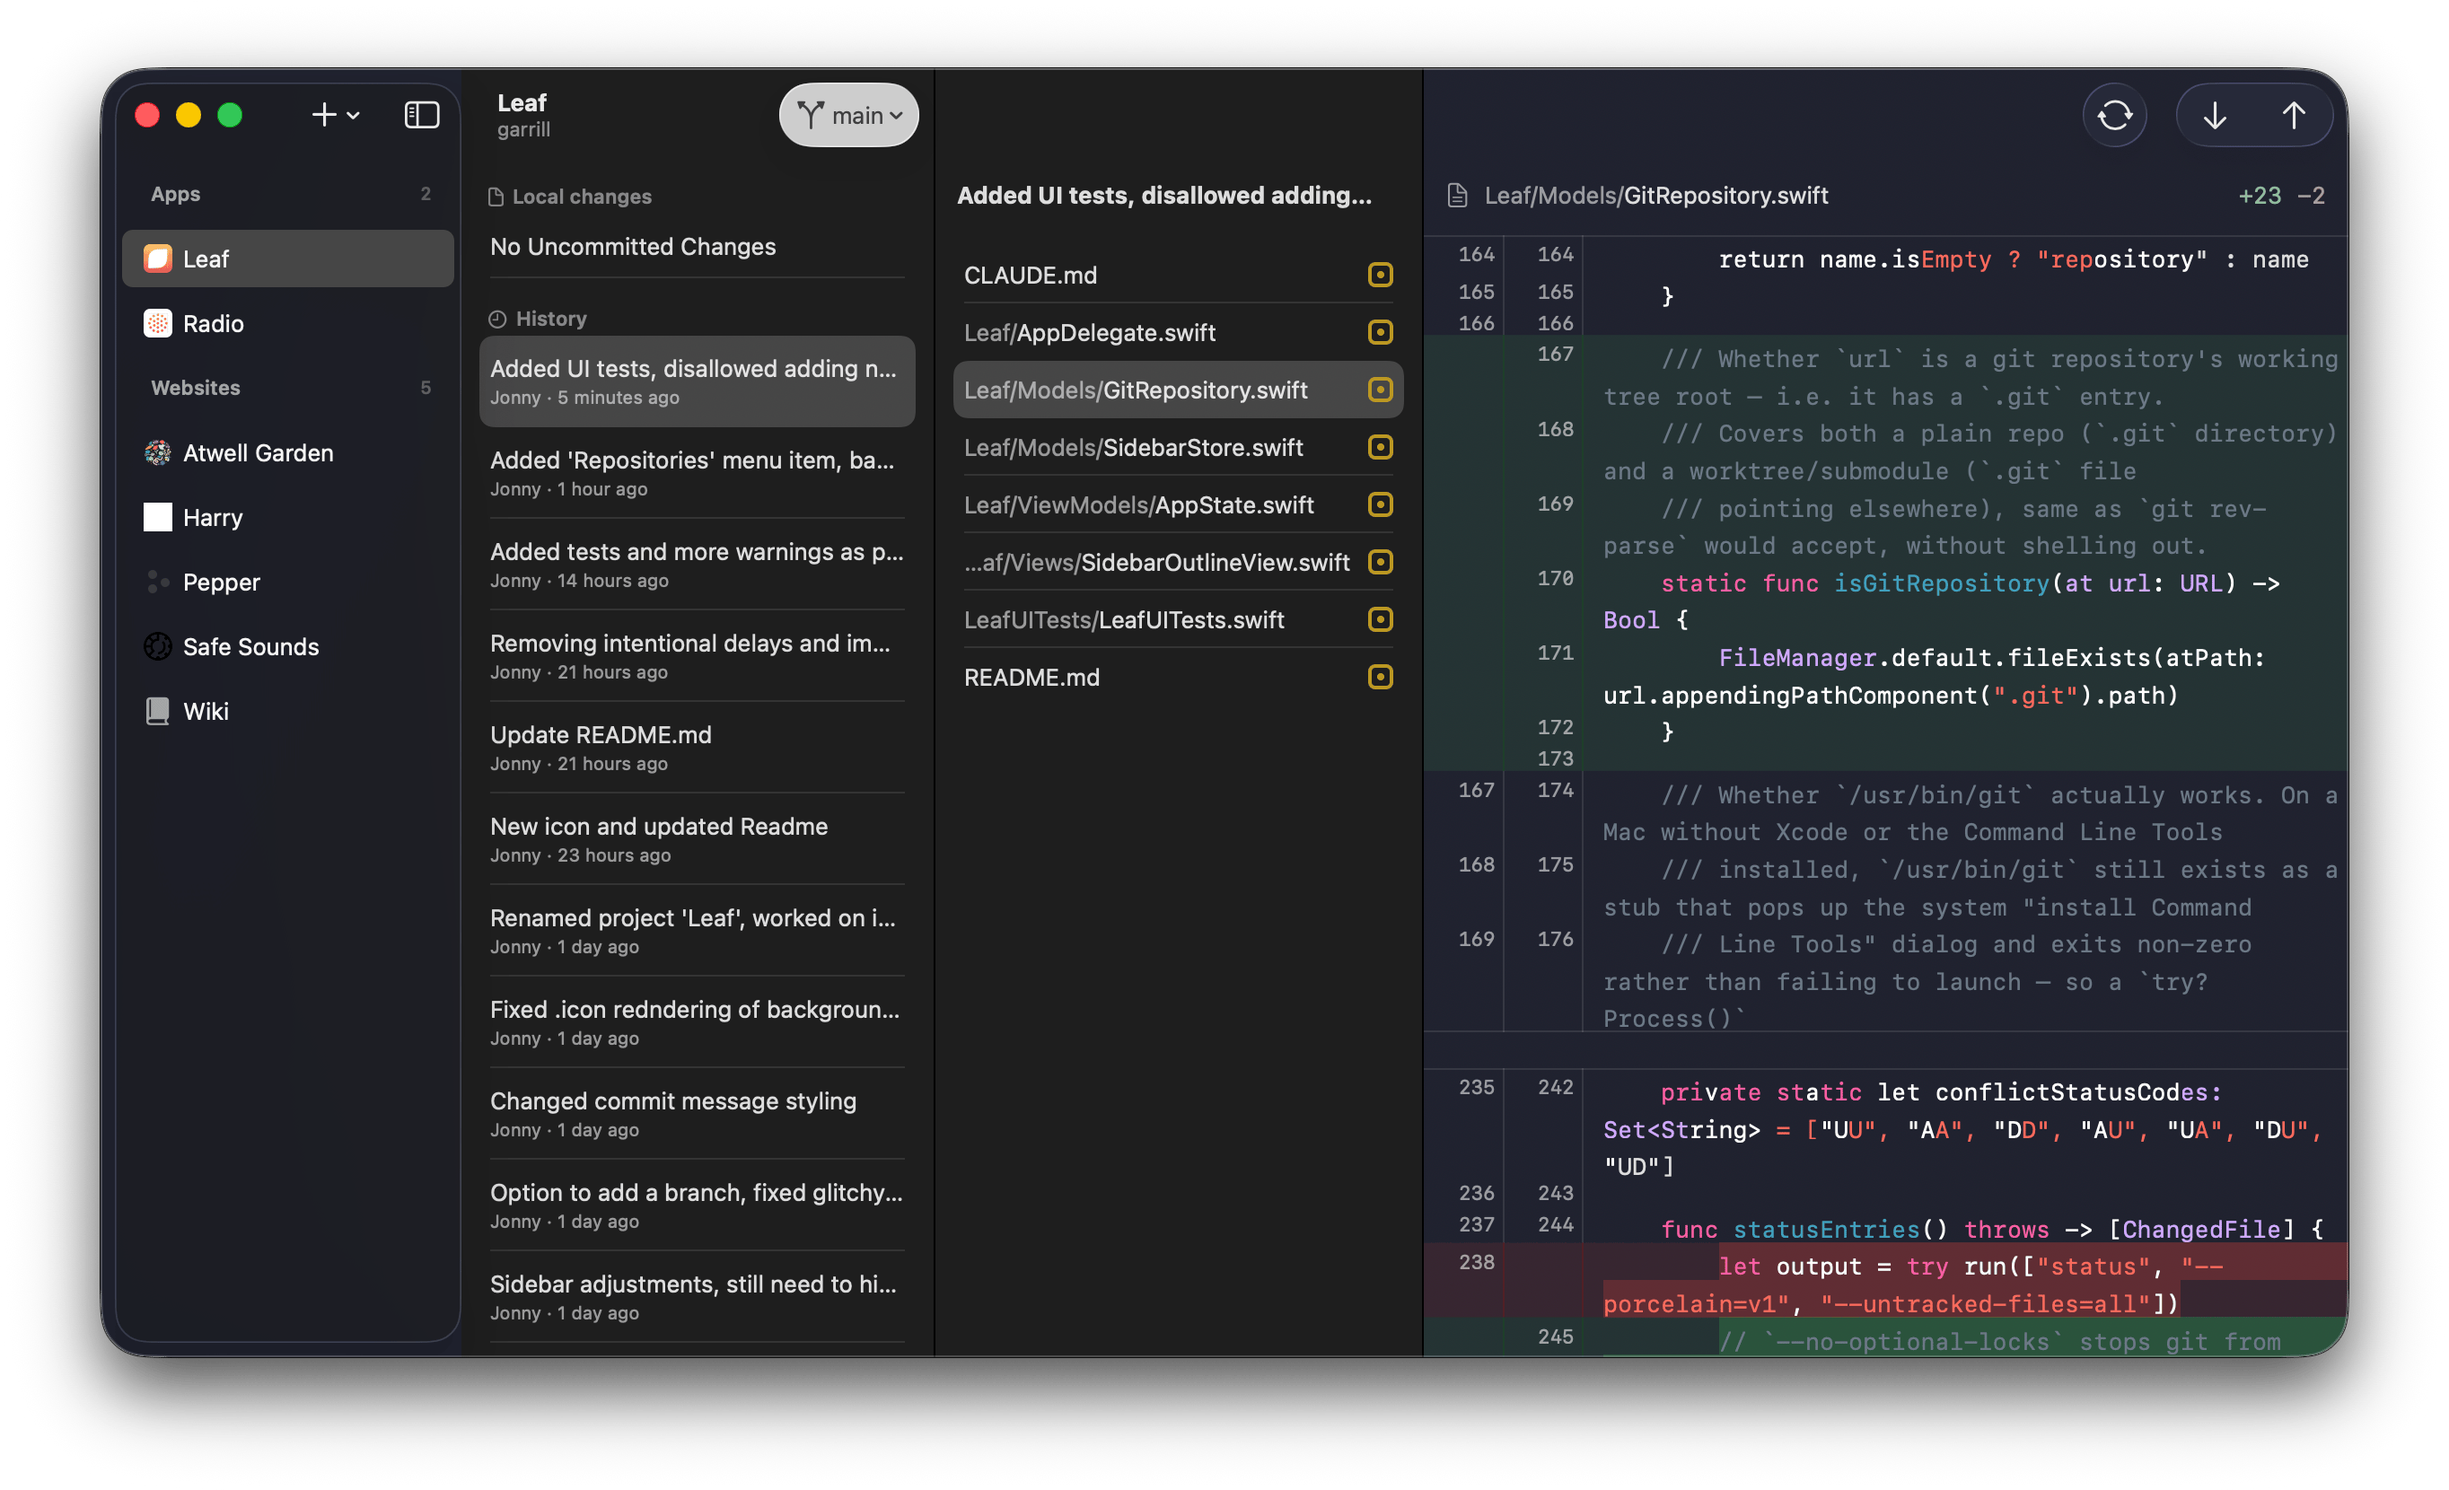
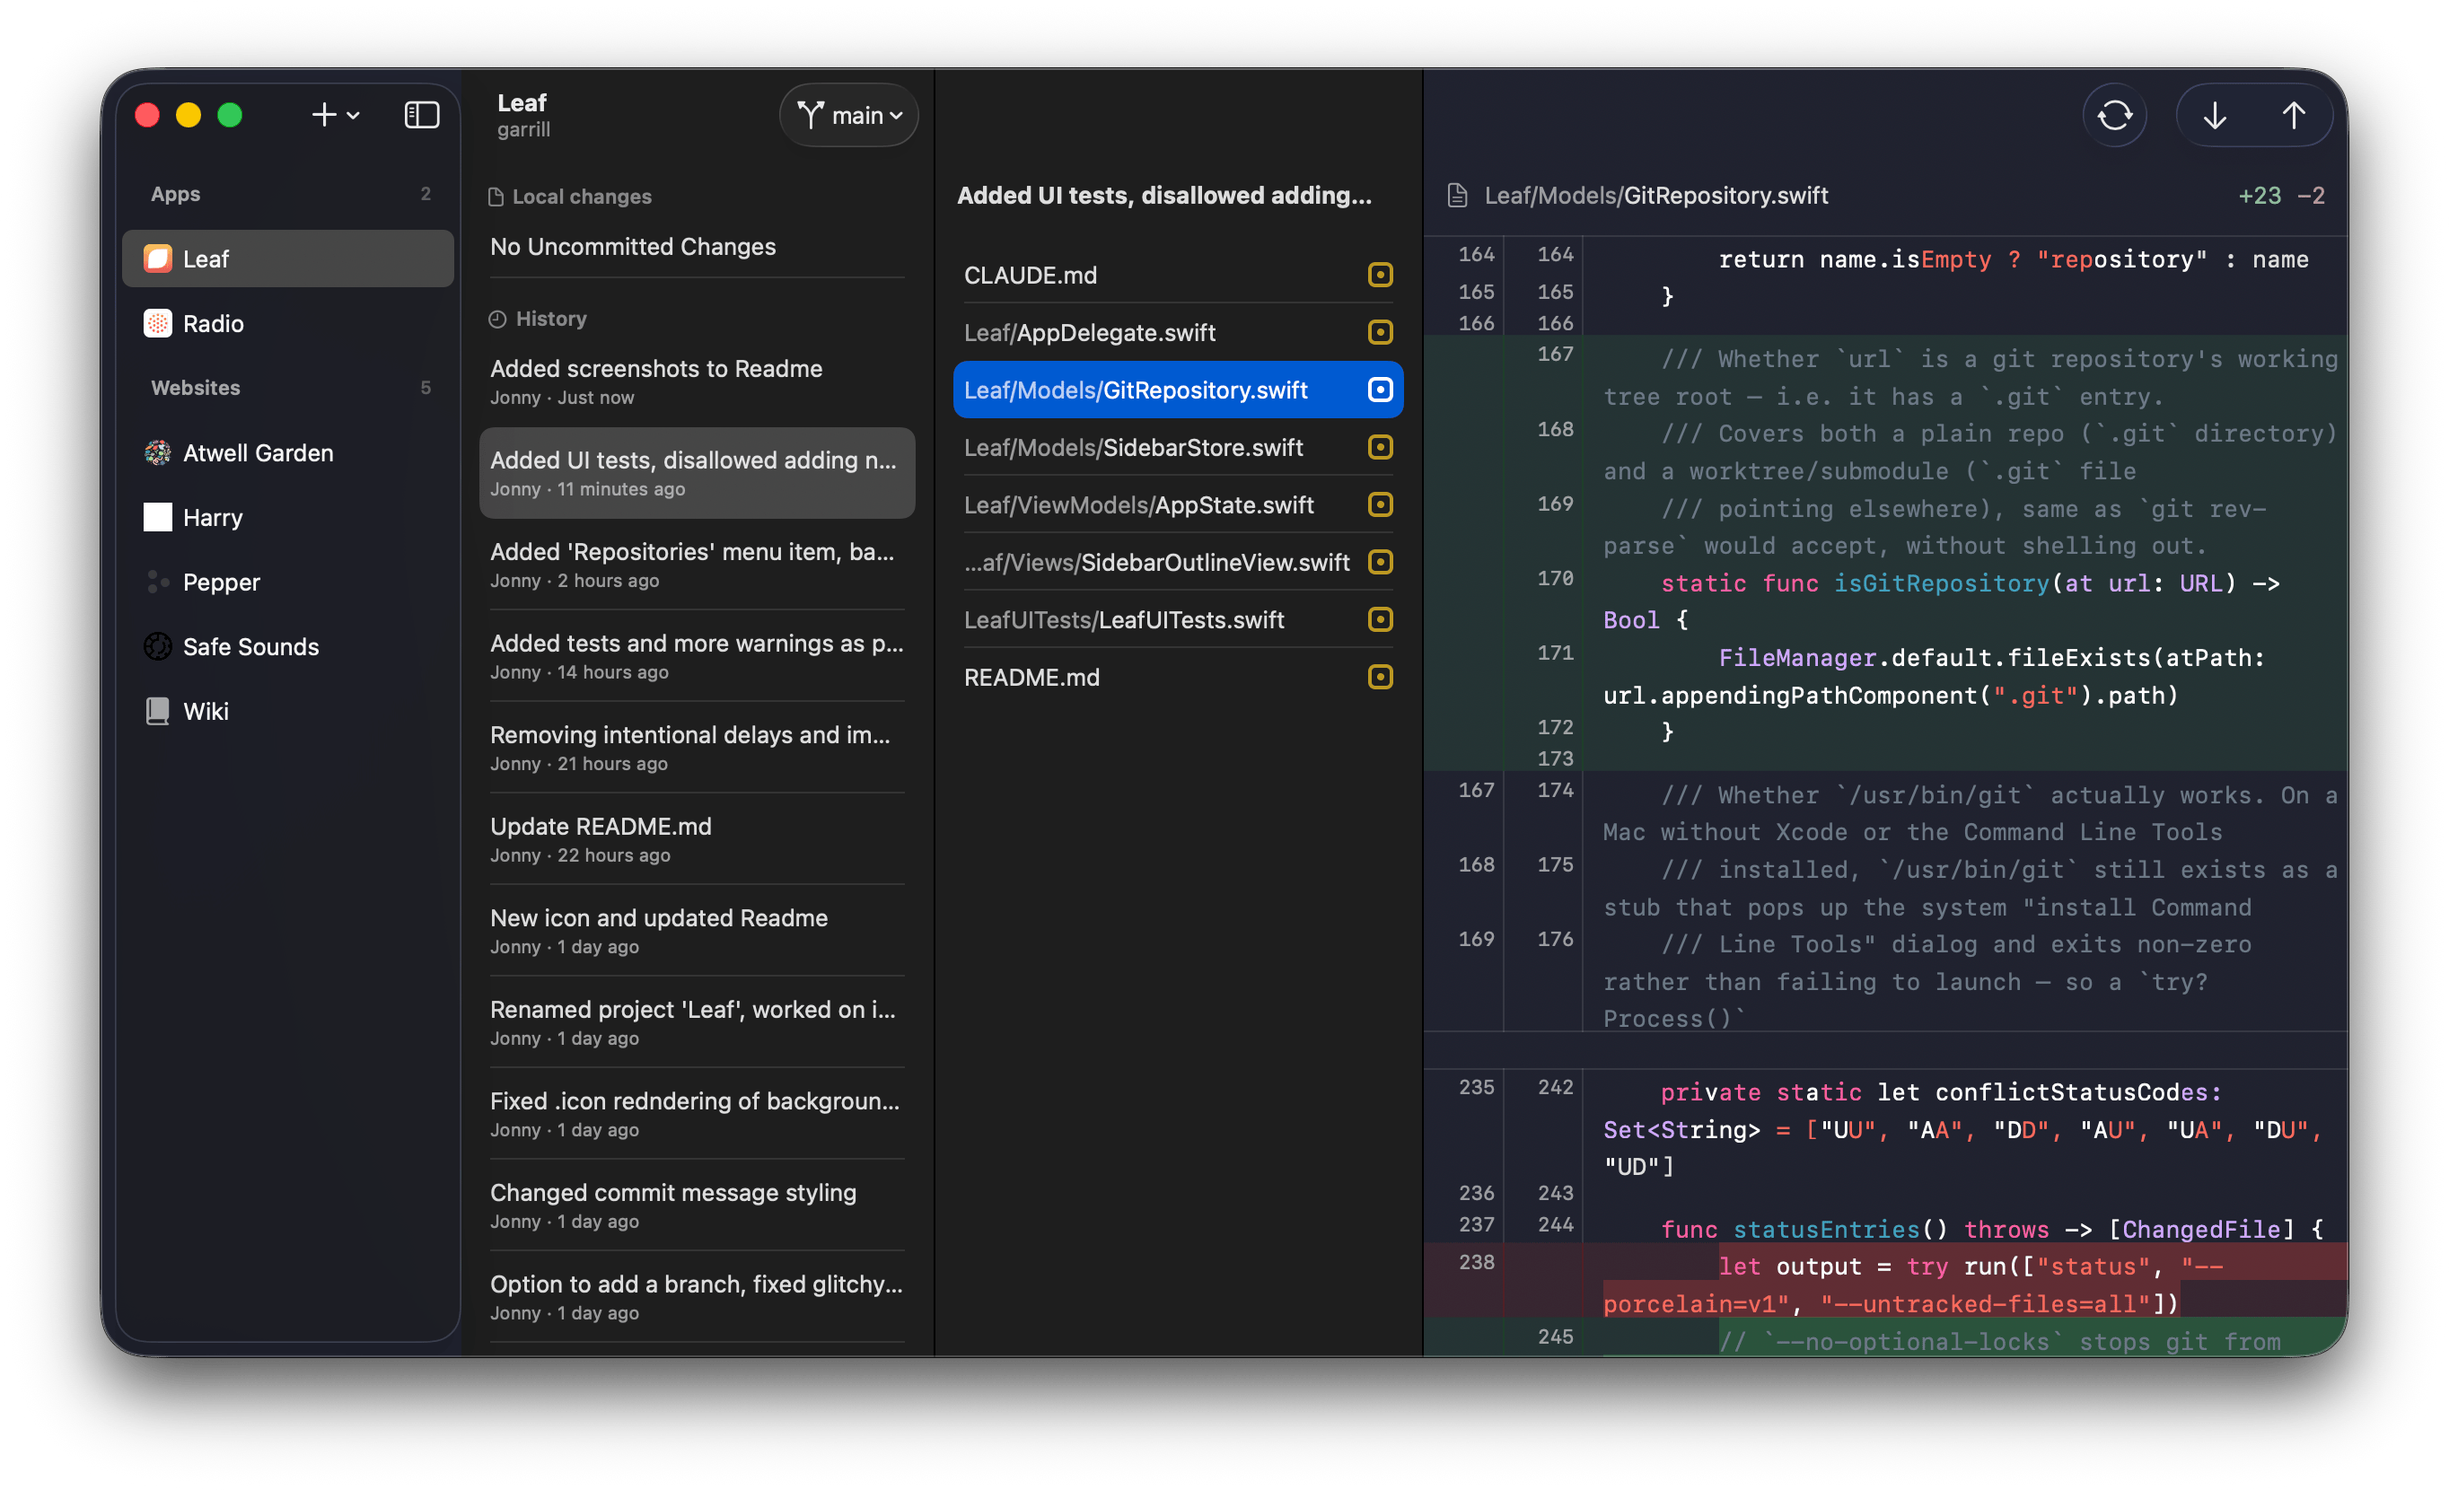
removed diff view on new / deleted images. fixed binary file text not showing

diff --git a/Leaf/Views/ImageDiffView.swift b/Leaf/Views/ImageDiffView.swift
@@ -19,23 +19,59 @@ struct ImageDiffView: View {
     private var newImage: NSImage? { appState.imageDiffNew.flatMap(NSImage.init(data:)) }
 
     var body: some View {
-        VStack(spacing: 16) {
-            Picker("View Mode", selection: $mode) {
-                ForEach(Mode.allCases) { mode in
-                    Text(mode.rawValue).tag(mode)
+        if oldImage == nil || newImage == nil {
+            singleImageLayout
+                .frame(maxWidth: .infinity, maxHeight: .infinity)
+        } else {
+            VStack(spacing: 16) {
+                Picker("View Mode", selection: $mode) {
+                    ForEach(Mode.allCases) { mode in
+                        Text(mode.rawValue).tag(mode)
+                    }
+                }
+                .pickerStyle(.segmented)
+                .labelsHidden()
+                .frame(maxWidth: 280)
+                .padding(.top, 16)
+
+                switch mode {
+                case .sideBySide: sideBySideLayout
+                case .swiper: swiperLayout
                 }
             }
-            .pickerStyle(.segmented)
-            .labelsHidden()
-            .frame(maxWidth: 280)
-            .padding(.top, 16)
-
-            switch mode {
-            case .sideBySide: sideBySideLayout
-            case .swiper: swiperLayout
-            }
+            .frame(maxWidth: .infinity, maxHeight: .infinity)
         }
-        .frame(maxWidth: .infinity, maxHeight: .infinity)
+    }
+
+    /// A file that's purely added or removed has only one side to show — the tab picker and
+    /// Before/After labels would be redundant, so just show the one image full-bleed (dimensions
+    /// and file size are still worth keeping, just without the now-meaningless side label).
+    private var singleImageLayout: some View {
+        let image = newImage ?? oldImage
+        let data = newImage != nil ? appState.imageDiffNew : appState.imageDiffOld
+        return VStack(spacing: 8) {
+            Group {
+                if let image {
+                    Image(nsImage: image)
+                        .resizable()
+                        .aspectRatio(contentMode: .fit)
+                        .frame(maxWidth: .infinity, maxHeight: .infinity)
+                        .background(Color.secondary.opacity(0.06))
+                        .overlay(RoundedRectangle(cornerRadius: 6).stroke(Color.secondary.opacity(0.2)))
+                } else {
+                    RoundedRectangle(cornerRadius: 6)
+                        .fill(Color.secondary.opacity(0.06))
+                        .overlay(RoundedRectangle(cornerRadius: 6).stroke(Color.secondary.opacity(0.2)))
+                        .overlay(Text("No Preview Available").font(.callout).foregroundStyle(.secondary))
+                }
+            }
+            .frame(maxWidth: .infinity, maxHeight: .infinity)
+
+            Text(metadataText(image: image, data: data))
+                .font(.caption)
+                .foregroundStyle(.secondary)
+        }
+        .padding(20)
     }
 
     private var sideBySideLayout: some View {

diff --git a/Leaf/Views/DiffView.swift b/Leaf/Views/DiffView.swift
@@ -196,13 +196,18 @@ struct DiffView: View {
         } else if appState.selectedFile?.isLikelyImage == true {
             ImageDiffView(appState: appState)
                 .frame(maxWidth: .infinity, maxHeight: .infinity, alignment: .top)
-        } else if appState.diffText.hasPrefix("Binary files ") {
-            ContentUnavailableView(
-                "Binary File Changed",
-                systemImage: "doc.badge.gearshape",
-                description: Text(fileName)
-            )
-            .frame(maxWidth: .infinity, maxHeight: .infinity, alignment: .top)
+        } else if appState.diffText.contains("\nBinary files ") || appState.diffText.hasPrefix("Binary files ") {
+            VStack(spacing: 6) {
+                Image(systemName: "doc.badge.gearshape")
+                    .font(.title2)
+                    .foregroundStyle(.secondary)
+                Text("Binary File Changed")
+                    .font(.callout.weight(.medium))
+                Text(fileName)
+                    .font(.caption)
+                    .foregroundStyle(.secondary)
+            }
+            .frame(maxWidth: .infinity, maxHeight: .infinity, alignment: .center)
         } else if appState.diffText.isEmpty {
             Color.clear
                 .frame(maxWidth: .infinity, maxHeight: .infinity, alignment: .top)
